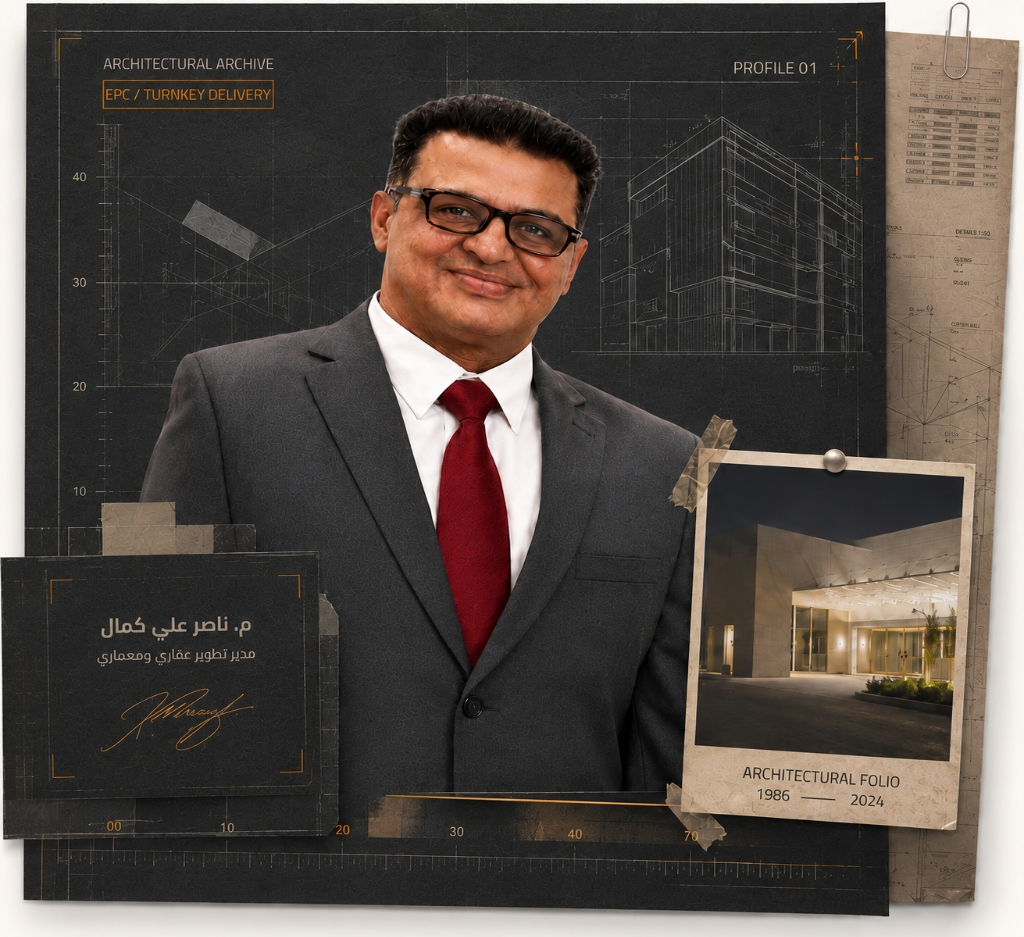
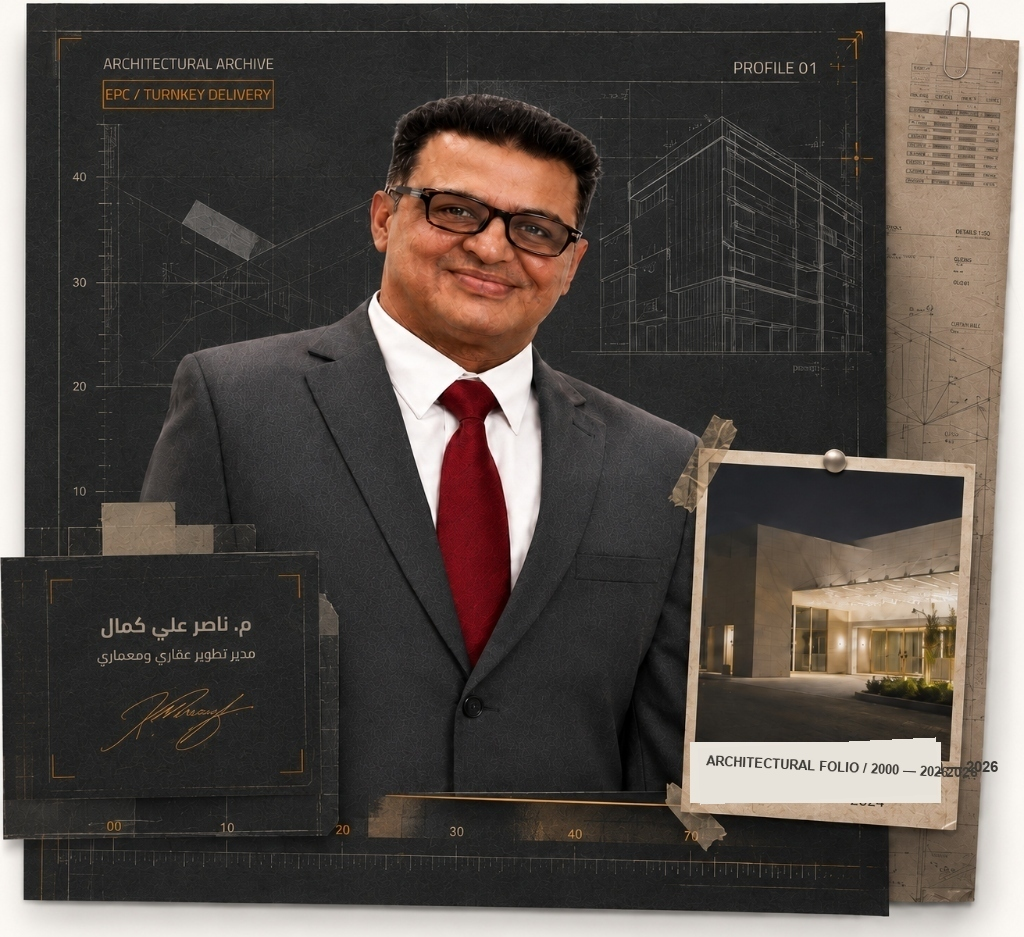
feat: update portfolio timeframe to 2000 - 2026 and remove Saudi Arabia location tag from hero

Changed region(s): [[0.6562, 0.7737, 0.9688, 0.8666]]

diff --git a/src/main.js b/src/main.js
@@ -76,13 +76,13 @@ const translations = {
     archive_badge: "ARCHITECTURAL DOSSIER CATALOG",
     archive_title: "فهرس المشاريع الشامل (12 صرحاً ومجمعاً)",
     archive_search_placeholder: "ابحث باسم المشروع، الكود، أو الجهة (مثال: جامعة نورة، بريمان، KAP)...",
-    hero_badge_loc: "المملكة العربية السعودية",
+    hero_folio_tag: "ARCHITECTURAL FOLIO / 2000 — 2026",
     hero_greeting: "المعماري ومدير التطوير",
     hero_name: "ناصر علي كمال",
     hero_name_full: "م. ناصر علي كمال",
-    hero_subtitle: "دمج الرؤية المعمارية الإبداعية مع حوكمة المشاريع الكبرى، البنية التحتية، ومشاريع تسليم المفتاح EPC بالمملكة العربية السعودية.",
-    hero_trust_badge: "خبرة معتمدة +25 عاماً بالمملكة",
-    stat_exp: "سنة خبرة مهنية بالمملكة",
+    hero_subtitle: "دمج الرؤية المعمارية الإبداعية مع حوكمة المشاريع الكبرى، البنية التحتية، ومشاريع تسليم المفتاح EPC.",
+    hero_trust_badge: "خبرة هندسية معتمدة +26 عاماً",
+    stat_exp: "سنة خبرة مهنية متواصلة",
     stat_projects: "مشروع منجز ومسلم",
     stat_infra: "ريال حجم المشاريع المشرف عليها",
     tab_architect: "الرؤية المعمارية",
@@ -100,12 +100,11 @@ const translations = {
     hero_btn_projects: "استعراض سجل المشاريع",
     hero_btn_contact: "طلب استشارة أو اجتماع",
     hero_statement: "خبرة تقود المشروع من الرؤية إلى التسليم",
-    hero_description_exact: "مدير تطوير عقاري ومعماري بخبرة تتجاوز 25 عامًا في قيادة المشاريع الكبرى من التصميم والتخطيط إلى التنفيذ والتسليم بالمملكة العربية السعودية.",
+    hero_description_exact: "مدير تطوير عقاري ومعماري بخبرة تتجاوز 26 عامًا في قيادة المشاريع الكبرى من التصميم والتخطيط إلى التنفيذ والتسليم المعتمد.",
     hero_btn_projects_exact: "استعرض المشاريع",
     hero_btn_contact_exact: "اطلب استشارة",
-    proof_exp: "+25 عامًا من الخبرة",
+    proof_exp: "+26 عامًا من الخبرة",
     proof_epc: "EPC وتسليم مفتاح",
-    proof_ksa: "المملكة العربية السعودية",
     legend_title: "المعماري ومدير التطوير",
     caption_name: "م. ناصر علي كمال",
     caption_role: "مدير تطوير عقاري ومهندس معماري",
@@ -120,8 +119,8 @@ const translations = {
     pillar3_desc: "مطابقة اشتراطات كود البناء السعودي (SBC) والدفاع المدني والإشراف الصارم.",
     team_caption_1: "المهندس ناصر علي كمال مع قيادات وفريق العمل في حفل تسليم وافتتاح المشاريع",
     team_caption_2: "الجولات الميدانية والإشراف الهندسي المباشر على جودة التنفيذ بالموقع",
-    timeline_tag: "CAREER ERA SCRUBBER • 1986 — 2024",
-    timeline_title: "مسار الريادة والتطور الهندسي عبر 25 عاماً",
+    timeline_tag: "CAREER ERA SCRUBBER • 2000 — 2026",
+    timeline_title: "مسار الريادة والتطور الهندسي عبر 26 عاماً (2000 — 2026)",
     era1_title: "التأسيس والتصميم الأصيل",
     era2_title: "المشاريع السيادية والجامعية",
     era3_title: "البنية التحتية والأبراج",
@@ -230,13 +229,13 @@ const translations = {
     archive_badge: "ARCHITECTURAL DOSSIER CATALOG",
     archive_title: "Complete Landmark Projects Index (12 Facilities)",
     archive_search_placeholder: "Search by project name, code, or client (e.g. Princess Nora, Briman, KAP)...",
-    hero_badge_loc: "Kingdom of Saudi Arabia",
+    hero_folio_tag: "ARCHITECTURAL FOLIO / 2000 — 2026",
     hero_greeting: "Architect & Development Director",
     hero_name: "Nasser Ali Kamal",
     hero_name_full: "Arch. Nasser Ali Kamal",
-    hero_subtitle: "Harmonizing visionary architectural design with mega-project development governance, strategic infrastructure, and turnkey EPC execution across Saudi Arabia.",
-    hero_trust_badge: "Accredited KSA Practice +25 Years",
-    stat_exp: "Years Proven KSA Track Record",
+    hero_subtitle: "Harmonizing visionary architectural design with mega-project development governance, strategic infrastructure, and turnkey EPC execution.",
+    hero_trust_badge: "Accredited Practice +26 Years",
+    stat_exp: "Years Proven Track Record",
     stat_projects: "Delivered Landmark Projects",
     stat_infra: "SAR Portfolio Managed & Supervised",
     tab_architect: "Architectural Vision",
@@ -254,12 +253,11 @@ const translations = {
     hero_btn_projects: "Explore Project Folio",
     hero_btn_contact: "Request Consultation",
     hero_statement: "Expertise Leading Projects from Vision to Delivery",
-    hero_description_exact: "Senior Real Estate Development Director & Principal Architect with over 25 years of experience leading mega projects from design and master planning to turnkey execution and delivery across Saudi Arabia.",
+    hero_description_exact: "Senior Real Estate Development Director & Principal Architect with over 26 years of experience leading mega projects from design and master planning to turnkey execution and delivery.",
     hero_btn_projects_exact: "Explore Projects",
     hero_btn_contact_exact: "Request Consultation",
-    proof_exp: "+25 Years of Experience",
+    proof_exp: "+26 Years of Experience",
     proof_epc: "EPC & Turnkey Delivery",
-    proof_ksa: "Kingdom of Saudi Arabia",
     legend_title: "Architect & Development Director",
     caption_name: "Arch. Nasser Ali Kamal",
     caption_role: "Development Manager & Architect",
@@ -274,8 +272,8 @@ const translations = {
     pillar3_desc: "Strict compliance with Saudi Building Code (SBC) and Civil Defense fire-life safety mandates.",
     team_caption_1: "Arch. Nasser Ali Kamal with executive leadership and engineering teams celebrating milestone facility handovers",
     team_caption_2: "Direct on-site engineering supervision and technical quality control audits at active work sites",
-    timeline_tag: "CAREER ERA SCRUBBER • 1986 — 2024",
-    timeline_title: "Leadership & Engineering Evolution Across 25 Years",
+    timeline_tag: "CAREER ERA SCRUBBER • 2000 — 2026",
+    timeline_title: "Leadership & Engineering Evolution Across 26 Years (2000 — 2026)",
     era1_title: "Foundations & Heritage",
     era2_title: "Sovereign & University Mega EPC",
     era3_title: "Strategic Infrastructure & Towers",

diff --git a/index.html b/index.html
@@ -133,12 +133,8 @@
           <div class="hero-content-col">
             <!-- Top Metadata Row -->
             <div class="hero-meta-row">
-              <div class="hero-location-tag">
-                <i data-lucide="map-pin" class="loc-icon"></i>
-                <span data-i18n="hero_badge_loc">المملكة العربية السعودية</span>
-              </div>
-              <div class="hero-meta-badge font-mono">
-                ARCHITECTURAL FOLIO / 1986 — 2024
+              <div class="hero-meta-badge font-mono" data-i18n="hero_folio_tag">
+                ARCHITECTURAL FOLIO / 2000 — 2026
               </div>
             </div>
 
@@ -154,7 +150,7 @@
 
             <!-- Description -->
             <p class="hero-description" data-i18n="hero_description_exact">
-              مدير تطوير عقاري ومعماري بخبرة تتجاوز 25 عامًا في قيادة المشاريع الكبرى من التصميم والتخطيط إلى التنفيذ والتسليم بالمملكة العربية السعودية.
+              مدير تطوير عقاري ومعماري بخبرة تتجاوز 26 عامًا في قيادة المشاريع الكبرى من التصميم والتخطيط إلى التنفيذ والتسليم المعتمد.
             </p>
 
             <!-- CTA Buttons -->
@@ -173,17 +169,12 @@
             <div class="hero-proof-row">
               <div class="proof-item">
                 <i data-lucide="shield-check" class="proof-icon"></i>
-                <span class="proof-text" data-i18n="proof_exp">+25 عامًا من الخبرة</span>
+                <span class="proof-text" data-i18n="proof_exp">+26 عامًا من الخبرة</span>
               </div>
               <div class="proof-divider"></div>
               <div class="proof-item">
                 <i data-lucide="key" class="proof-icon"></i>
                 <span class="proof-text" data-i18n="proof_epc">EPC وتسليم مفتاح</span>
-              </div>
-              <div class="proof-divider"></div>
-              <div class="proof-item">
-                <i data-lucide="map-pin" class="proof-icon"></i>
-                <span class="proof-text" data-i18n="proof_ksa">المملكة العربية السعودية</span>
               </div>
             </div>
           </div>

diff --git a/src/data.js b/src/data.js
@@ -16,18 +16,14 @@ export const portfolioData = {
       ar: "دمج الرؤية المعمارية الإبداعية مع حوكمة التطوير العقاري وإدارة المشاريع الكبرى وتسليم المفتاح في المملكة العربية السعودية.",
       en: "Synthesizing high-concept architectural design with rigorous real estate development governance, master-planning, and turnkey EPC execution across Saudi Arabia."
     },
-    experienceYears: "25+",
-    establishedYear: "1986",
-    location: {
-      ar: "الرياض، المملكة العربية السعودية",
-      en: "Riyadh, Kingdom of Saudi Arabia"
-    },
+    experienceYears: "26+",
+    establishedYear: "2000",
     stats: [
       {
-        value: "25+",
+        value: "26+",
         unit: { ar: "عاماً", en: "Years" },
         label: { ar: "خبرة في التطوير والمعمار", en: "Architecture & Development" },
-        sub: { ar: "في السوق السعودي منذ 1986م", en: "KSA Market Leadership" }
+        sub: { ar: "مسيرة هندسية رائدة منذ 2000م", en: "Engineering Leadership Since 2000" }
       },
       {
         value: "170M",
